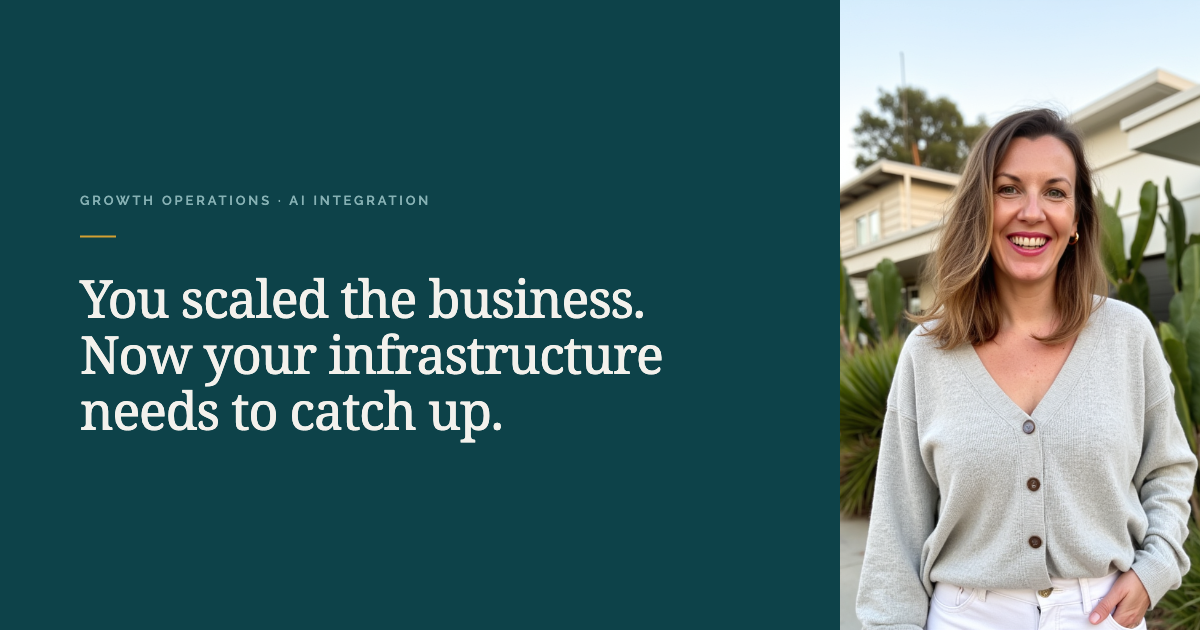
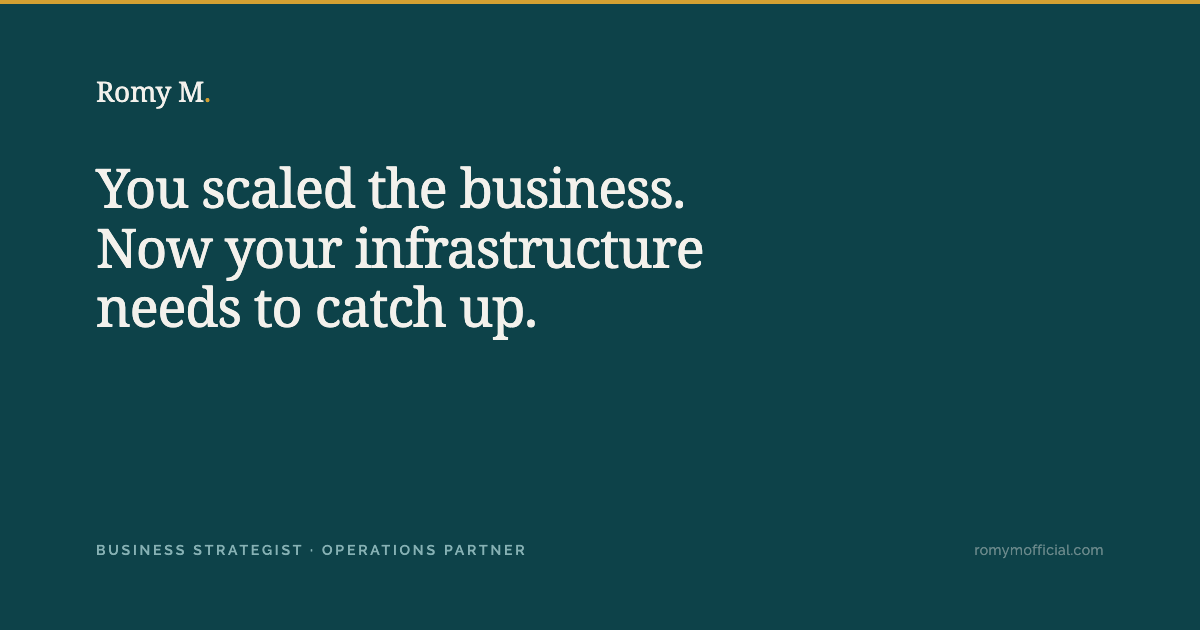
Open Graph card: new positioning line; remove unused hero asset

diff --git a/og-card.html b/og-card.html
@@ -61,7 +61,7 @@
     <div class="headline">You scaled the business. Now your infrastructure needs to catch up.</div>
   </div>
   <div class="bottom">
-    <div class="tagline">Growth Operations · AI Integration</div>
+    <div class="tagline">Business Strategist · Operations Partner</div>
     <div class="url">romymofficial.com</div>
   </div>
 </div>
